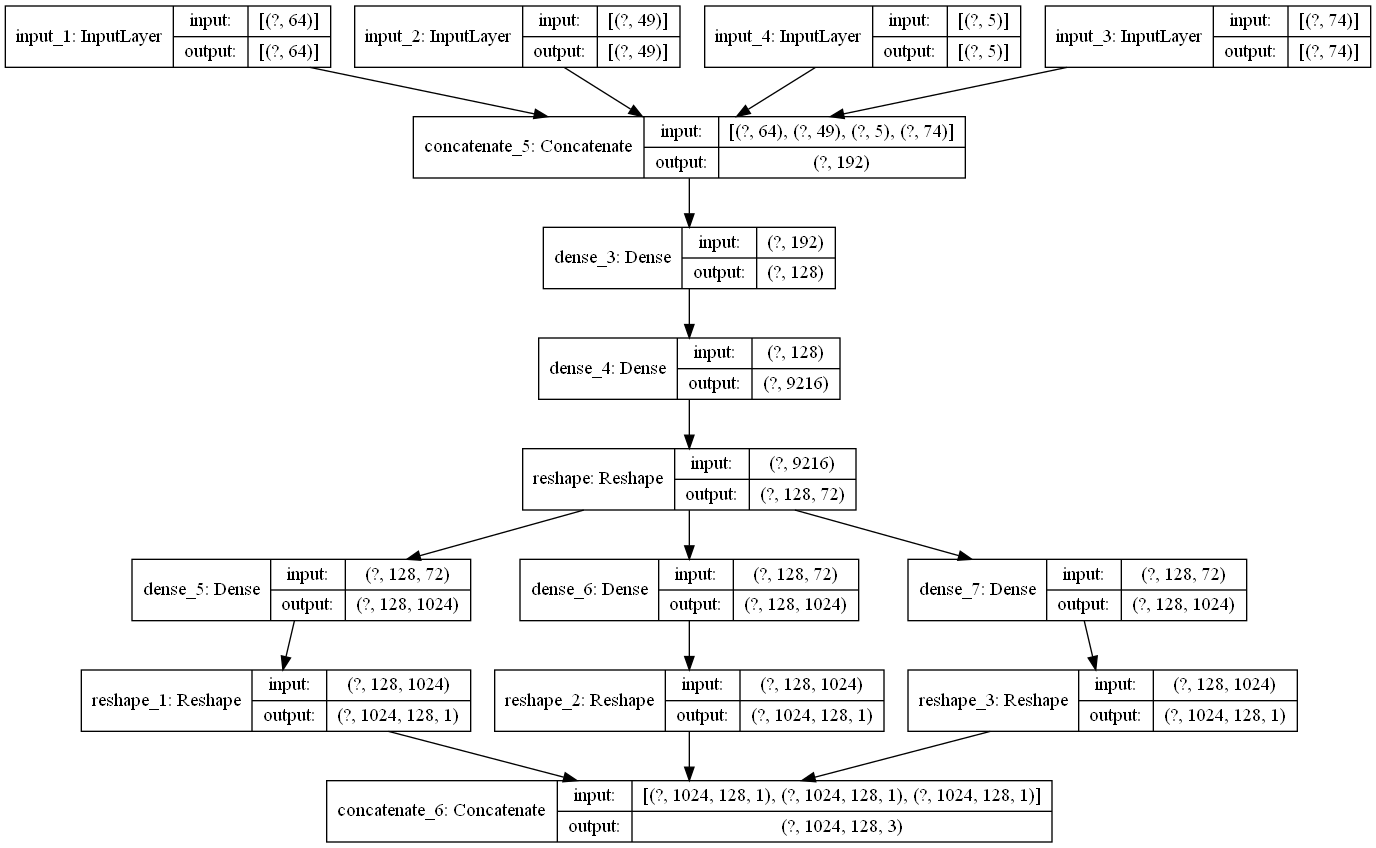
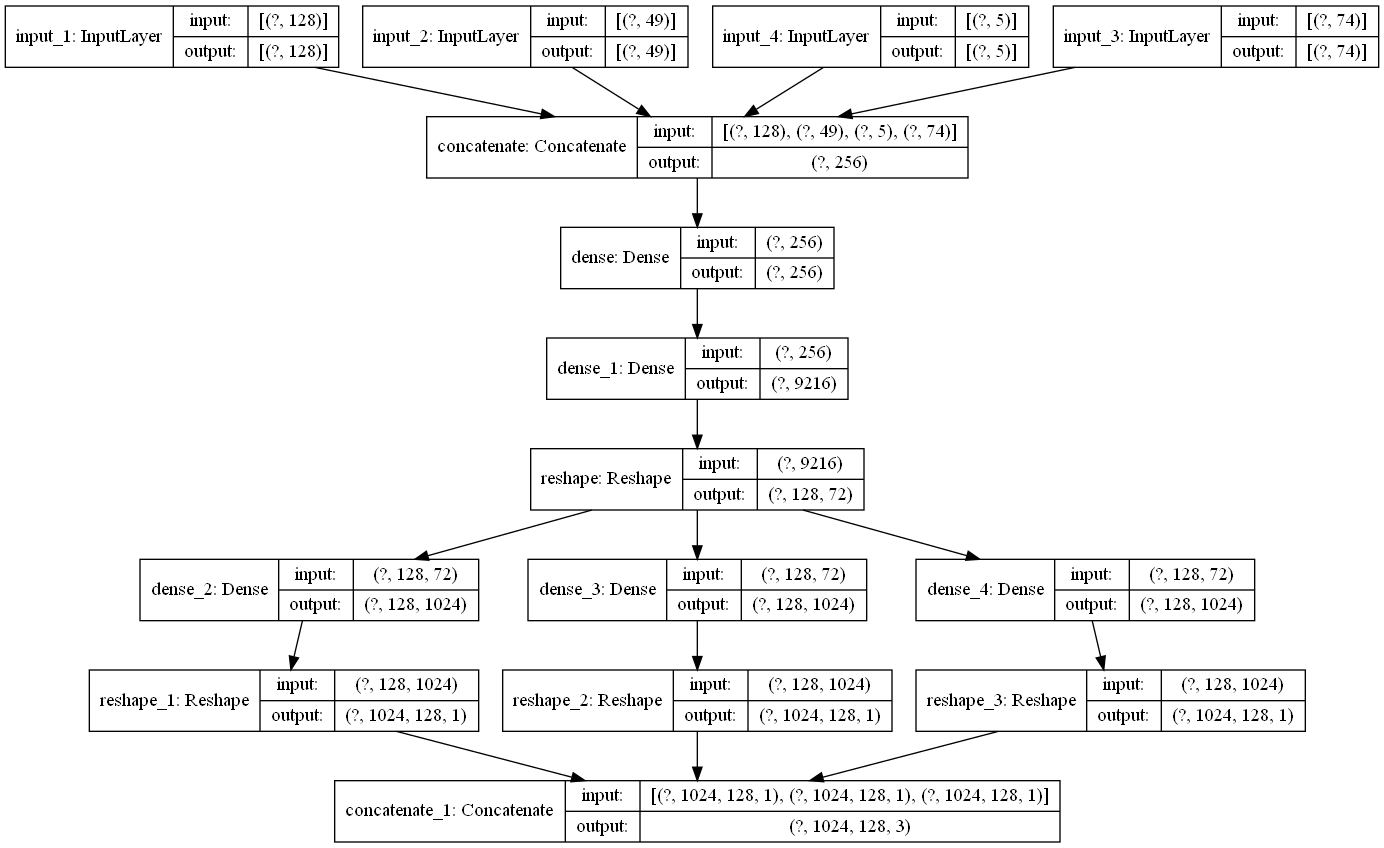
choice of decoder

diff --git a/members/amit/harmonic_decomp/model.py b/members/amit/harmonic_decomp/model.py
@@ -52,7 +52,7 @@ def create_encoder(conf: LocalConfig):
     return model
 
 
-def create_decoder(conf: LocalConfig):
+def create_decoder_mlp(conf: LocalConfig):
     z_input = tf.keras.layers.Input(shape=(conf.latent_dim,))
     note_number = tf.keras.layers.Input(shape=(conf.num_pitches,))
     instrument_id = tf.keras.layers.Input(shape=(conf.num_instruments,))
@@ -81,34 +81,39 @@ def create_decoder(conf: LocalConfig):
     tf.keras.utils.plot_model(model, to_file="decoder.png", show_shapes=True)
     return model
 
-# def create_decoder(conf: LocalConfig):
-#     z_input = tf.keras.layers.Input(shape=(conf.latent_dim,))
-#     note_number = tf.keras.layers.Input(shape=(conf.num_pitches,))
-#     instrument_id = tf.keras.layers.Input(shape=(conf.num_instruments,))
-#     velocity = tf.keras.layers.Input(shape=(conf.num_velocities,))
-#     inputs = tf.keras.layers.concatenate([z_input, note_number, velocity, instrument_id])
-#     hidden = tf.keras.layers.Dense(conf.hidden_dim, activation="relu",
-#                                    kernel_initializer=tf.initializers.glorot_uniform)(inputs)
-#     up_input = tf.keras.layers.Dense(conf.final_conv_units, activation="relu",
-#                                      kernel_initializer=tf.initializers.glorot_uniform)(hidden)
-#     x = tf.keras.layers.Reshape(conf.final_conv_shape)(up_input)
-#
-#     filters = reversed([32, 32, 32, 64, 64, 64])
-#     kernels = reversed([3, 3, 3, 3, 3, 3])
-#
-#     for f, k in zip(filters, kernels):
-#         x = tf.keras.layers.UpSampling2D(2)(x)
-#         x = tf.keras.layers.Conv2D(f, k, padding=conf.padding,
-#                                    kernel_initializer=tf.initializers.glorot_uniform)(x)
-#         x = tf.keras.layers.BatchNormalization()(x)
-#         x = tf.keras.layers.Activation("relu")(x)
-#
-#     reconstructed = tf.keras.layers.Conv2D(3, 3, padding=conf.padding, activation="tanh",
-#                                            kernel_initializer=tf.initializers.glorot_uniform)(x)
-#
-#     model = tf.keras.models.Model(
-#         [z_input, note_number, velocity, instrument_id],
-#         reconstructed, name="decoder"
-#     )
-#     tf.keras.utils.plot_model(model, to_file="decoder.png", show_shapes=True)
-#     return model
+
+def create_decoder_conv(conf: LocalConfig):
+    z_input = tf.keras.layers.Input(shape=(conf.latent_dim,))
+    note_number = tf.keras.layers.Input(shape=(conf.num_pitches,))
+    instrument_id = tf.keras.layers.Input(shape=(conf.num_instruments,))
+    velocity = tf.keras.layers.Input(shape=(conf.num_velocities,))
+    inputs = tf.keras.layers.concatenate([z_input, note_number, velocity, instrument_id])
+    hidden = tf.keras.layers.Dense(conf.hidden_dim, activation="relu",
+                                   kernel_initializer=tf.initializers.glorot_uniform)(inputs)
+    up_input = tf.keras.layers.Dense(conf.final_conv_units, activation="relu",
+                                     kernel_initializer=tf.initializers.glorot_uniform)(hidden)
+    x = tf.keras.layers.Reshape(conf.final_conv_shape)(up_input)
+
+    filters = reversed([32, 32, 32, 64, 64, 64])
+    kernels = reversed([3, 3, 3, 3, 3, 3])
+
+    for f, k in zip(filters, kernels):
+        x = tf.keras.layers.UpSampling2D(2)(x)
+        x = tf.keras.layers.Conv2D(f, k, padding=conf.padding,
+                                   kernel_initializer=tf.initializers.glorot_uniform)(x)
+        x = tf.keras.layers.BatchNormalization()(x)
+        x = tf.keras.layers.Activation("relu")(x)
+
+    reconstructed = tf.keras.layers.Conv2D(3, 3, padding=conf.padding, activation="tanh",
+                                           kernel_initializer=tf.initializers.glorot_uniform)(x)
+
+    model = tf.keras.models.Model(
+        [z_input, note_number, velocity, instrument_id],
+        reconstructed, name="decoder"
+    )
+    tf.keras.utils.plot_model(model, to_file="decoder.png", show_shapes=True)
+    return model
+
+
+def create_decoder(conf: LocalConfig):
+    return eval(f"create_decoder_{conf.decoder_type}(conf)")

diff --git a/members/amit/harmonic_decomp/train.py b/members/amit/harmonic_decomp/train.py
@@ -75,7 +75,7 @@ def train(conf: LocalConfig):
             step_loss = loss.numpy().mean()
             losses.append(step_loss)
 
-            if step % 100 == 0:
+            if step % conf.step_log_interval == 0 and conf.log_steps:
                 print(f"Step: {step:5d}, Loss at current step: {step_loss:.4f}")
 
         train_loss = sum(losses) / len(losses)

diff --git a/members/amit/harmonic_decomp/localconfig.py b/members/amit/harmonic_decomp/localconfig.py
@@ -21,6 +21,9 @@ class LocalConfig:
     final_conv_units = 16 * 2 * 288
     best_loss = 1e6
     sample_rate = 16000
+    log_steps = False
+    step_log_interval = 100
+    decoder_type = "mlp" # or "conv"
 
     _instance = None
 
